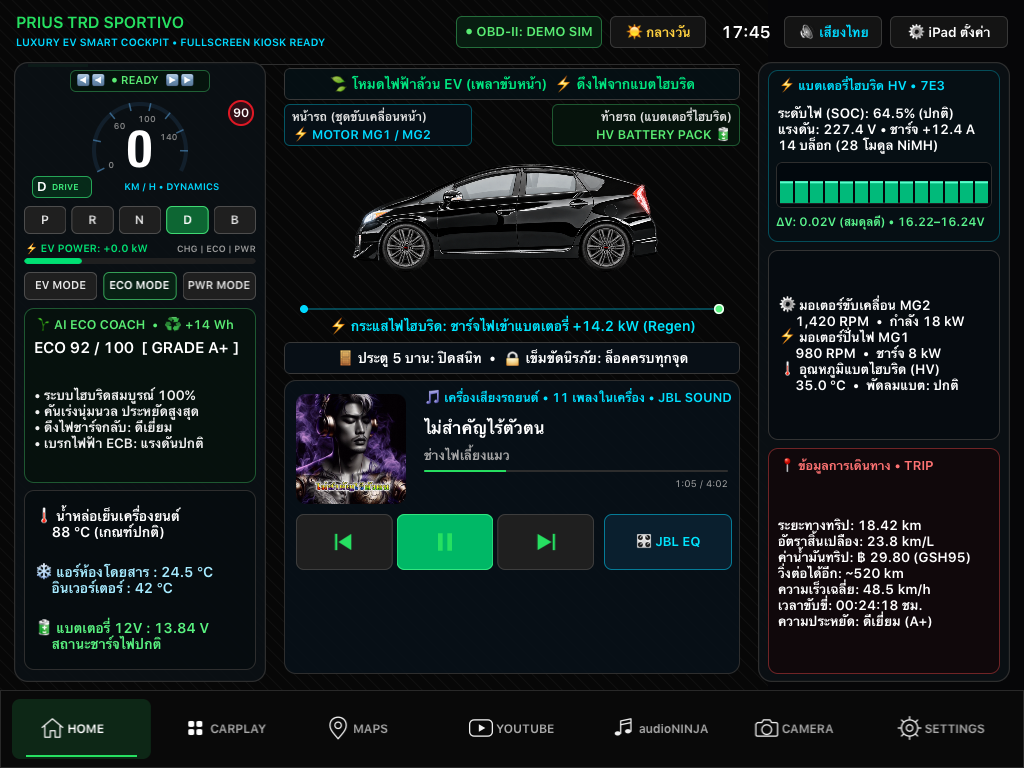
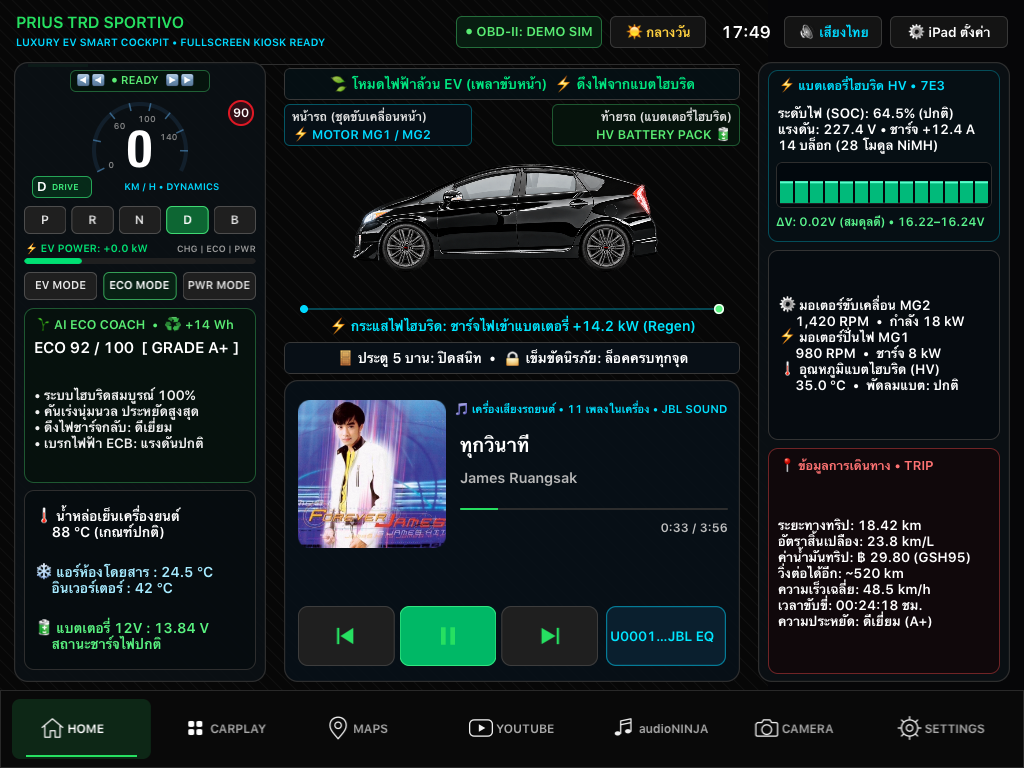
style(dashboard): lower multimedia transport buttons to align flush with bottom of side cards

diff --git a/align_media_buttons.js b/align_media_buttons.js
@@ -1,0 +1,92 @@
+const fs = require('fs');
+
+function alignMediaButtons(filePath) {
+  let code = fs.readFileSync(filePath, 'utf8');
+
+  code = code.replace(
+    /\/\/ Multimedia Console[\s\S]*?if\(mHead\) mHead\.hidden = NO;/,
+    `// Multimedia Console
+    CGFloat mTop = topY + 318;
+    CGFloat mH = colH - 318; // 302px -> bottom is topY + 620, 100% aligned with left & right columns
+    self.nowPanel.hidden = NO;
+    self.nowPanel.frame = CGRectMake(centerX + 8, mTop, centerW - 16, mH);
+    self.nowPanel.layer.cornerRadius = 14;
+    self.nowPanel.layer.borderWidth = 1.2;
+    self.nowPanel.layer.borderColor = [UIColor colorWithWhite:.18 alpha:1].CGColor;
+    self.nowPanel.backgroundColor = [UIColor colorWithRed:.03 green:.06 blue:.09 alpha:.95];
+
+    self.artwork.hidden = NO;
+    self.artwork.frame = CGRectMake(centerX + 22, mTop + 20, 148, 148);
+    self.artwork.layer.cornerRadius = 12;
+    self.artPlaceholder.frame = self.artwork.frame;
+    self.artPlaceholder.hidden = (self.artwork.image != nil);
+
+    UILabel *mHead = (UILabel *)[self.nowPanel viewWithTag:750];
+    if (!mHead) {
+      mHead = [[UILabel alloc] initWithFrame:CGRectMake(170, 18, centerW - 196, 22)];
+      mHead.tag = 750;
+      mHead.font = [UIFont boldSystemFontOfSize:13.0];
+      mHead.adjustsFontSizeToFitWidth = YES;
+      mHead.minimumScaleFactor = 0.85;
+      mHead.textColor = [UIColor colorWithRed:0 green:.88 blue:1 alpha:1];
+      mHead.text = @"🎵 เครื่องเสียงรถยนต์ • 11 เพลงในเครื่อง • JBL SOUND";
+      [self.nowPanel addSubview:mHead];
+    }
+    mHead.frame = CGRectMake(170, 18, centerW - 196, 22);
+
+    self.song.hidden = NO;
+    self.song.frame = CGRectMake(centerX + 184, mTop + 48, centerW - 204, 34);
+    self.song.font = [UIFont boldSystemFontOfSize:20.0];
+    self.song.textColor = [UIColor whiteColor];
+
+    self.artist.hidden = NO;
+    self.artist.frame = CGRectMake(centerX + 184, mTop + 86, centerW - 204, 24);
+    self.artist.font = [UIFont boldSystemFontOfSize:14.5];
+    self.artist.textColor = [UIColor colorWithWhite:0.72 alpha:1];
+
+    self.trackProgress.hidden = NO;
+    self.trackProgress.frame = CGRectMake(centerX + 184, mTop + 128, centerW - 204, 4);
+
+    self.trackTime.hidden = NO;
+    self.trackTime.frame = CGRectMake(centerX + 184, mTop + 138, centerW - 204, 20);
+    self.trackTime.font = [UIFont boldSystemFontOfSize:12.0];
+    self.trackTime.textColor = [UIColor colorWithWhite:0.75 alpha:1];
+    self.trackTime.textAlignment = NSTextAlignmentRight;
+
+    CGFloat btnY = mTop + mH - 76; // 60px high buttons, 16px from card bottom -> bottoms align with side cards!
+    CGFloat btnH = 60;
+    self.controls.hidden = NO;
+    self.controls.frame = CGRectMake(centerX + 22, btnY, 300, btnH);
+    CGFloat cw = 290 / 3.0;
+    for (int i = 0; i < 3; i++) {
+      UIView *b = [self.controls viewWithTag:20 + i];
+      b.frame = CGRectMake(i * (cw + 5), 0, cw, btnH);
+      b.layer.cornerRadius = 10;
+      if (i == 1) {
+        b.backgroundColor = [UIColor colorWithRed:.0 green:.72 blue:.40 alpha:1];
+        b.layer.borderColor = [UIColor colorWithRed:.2 green:.9 blue:.5 alpha:1].CGColor;
+      } else {
+        b.backgroundColor = [UIColor colorWithWhite:.12 alpha:1];
+        b.layer.borderColor = [UIColor colorWithWhite:.24 alpha:1].CGColor;
+      }
+      [b viewWithTag:105].frame = CGRectMake((cw - 28)/2, (btnH - 28)/2, 28, 28);
+    }
+
+    self.driveEQ.hidden = NO;
+    self.driveEQ.frame = CGRectMake(centerX + 330, btnY, centerW - 352, btnH);
+    self.driveEQ.layer.cornerRadius = 10;
+    self.driveEQ.layer.borderWidth = 1.2;
+    self.driveEQ.layer.borderColor = [UIColor colorWithRed:0 green:.85 blue:1 alpha:.5].CGColor;
+    self.driveEQ.backgroundColor = [UIColor colorWithRed:.04 green:.12 blue:.18 alpha:1];
+    [self.driveEQ setTitle:@"\U0001F39B\U0000FE0F JBL EQ" forState:UIControlStateNormal];
+    [self.driveEQ setTitleColor:[UIColor colorWithRed:0 green:.9 blue:1 alpha:1] forState:UIControlStateNormal];
+    self.driveEQ.titleLabel.font = [UIFont boldSystemFontOfSize:13.5];
+    if(mHead) mHead.hidden = NO;`
+  );
+
+  fs.writeFileSync(filePath, code, 'utf8');
+  console.log('Aligned media buttons to bottom in', filePath);
+}
+
+alignMediaButtons('cardash_main.m');
+alignMediaButtons('car_dash_live_main.m');

diff --git a/car_dash_live_main.m b/car_dash_live_main.m
@@ -2366,22 +2366,23 @@ typedef void (*NowPlayingReader)(dispatch_queue_t,void (^)(CFDictionaryRef));
 
     // Multimedia Console
     CGFloat mTop = topY + 318;
+    CGFloat mH = colH - 318; // 302px -> bottom is topY + 620, 100% aligned with left & right columns
     self.nowPanel.hidden = NO;
-    self.nowPanel.frame = CGRectMake(centerX + 8, mTop, centerW - 16, colH - 326);
-    self.nowPanel.layer.cornerRadius = 12;
-    self.nowPanel.layer.borderWidth = 1;
+    self.nowPanel.frame = CGRectMake(centerX + 8, mTop, centerW - 16, mH);
+    self.nowPanel.layer.cornerRadius = 14;
+    self.nowPanel.layer.borderWidth = 1.2;
     self.nowPanel.layer.borderColor = [UIColor colorWithWhite:.18 alpha:1].CGColor;
     self.nowPanel.backgroundColor = [UIColor colorWithRed:.03 green:.06 blue:.09 alpha:.95];
 
     self.artwork.hidden = NO;
-    self.artwork.frame = CGRectMake(centerX + 20, mTop + 14, 110, 110);
-    self.artwork.layer.cornerRadius = 10;
+    self.artwork.frame = CGRectMake(centerX + 22, mTop + 20, 148, 148);
+    self.artwork.layer.cornerRadius = 12;
     self.artPlaceholder.frame = self.artwork.frame;
     self.artPlaceholder.hidden = (self.artwork.image != nil);
 
     UILabel *mHead = (UILabel *)[self.nowPanel viewWithTag:750];
     if (!mHead) {
-      mHead = [[UILabel alloc] initWithFrame:CGRectMake(140, 8, centerW - 164, 20)];
+      mHead = [[UILabel alloc] initWithFrame:CGRectMake(170, 18, centerW - 196, 22)];
       mHead.tag = 750;
       mHead.font = [UIFont boldSystemFontOfSize:13.0];
       mHead.adjustsFontSizeToFitWidth = YES;
@@ -2390,33 +2391,36 @@ typedef void (*NowPlayingReader)(dispatch_queue_t,void (^)(CFDictionaryRef));
       mHead.text = @"🎵 เครื่องเสียงรถยนต์ • 11 เพลงในเครื่อง • JBL SOUND";
       [self.nowPanel addSubview:mHead];
     }
+    mHead.frame = CGRectMake(170, 18, centerW - 196, 22);
 
     self.song.hidden = NO;
-    self.song.frame = CGRectMake(centerX + 148, mTop + 32, centerW - 168, 30);
-    self.song.font = [UIFont boldSystemFontOfSize:17.5];
+    self.song.frame = CGRectMake(centerX + 184, mTop + 48, centerW - 204, 34);
+    self.song.font = [UIFont boldSystemFontOfSize:20.0];
     self.song.textColor = [UIColor whiteColor];
 
     self.artist.hidden = NO;
-    self.artist.frame = CGRectMake(centerX + 148, mTop + 64, centerW - 168, 22);
-    self.artist.font = [UIFont boldSystemFontOfSize:13.5];
-    self.artist.textColor = [UIColor colorWithWhite:0.65 alpha:1];
+    self.artist.frame = CGRectMake(centerX + 184, mTop + 86, centerW - 204, 24);
+    self.artist.font = [UIFont boldSystemFontOfSize:14.5];
+    self.artist.textColor = [UIColor colorWithWhite:0.72 alpha:1];
 
     self.trackProgress.hidden = NO;
-    self.trackProgress.frame = CGRectMake(centerX + 148, mTop + 90, centerW - 168, 3);
+    self.trackProgress.frame = CGRectMake(centerX + 184, mTop + 128, centerW - 204, 4);
 
     self.trackTime.hidden = NO;
-    self.trackTime.frame = CGRectMake(centerX + 148, mTop + 96, centerW - 168, 16);
-    self.trackTime.font = [UIFont systemFontOfSize:9.5];
-    self.trackTime.textColor = [UIColor colorWithWhite:0.65 alpha:1];
+    self.trackTime.frame = CGRectMake(centerX + 184, mTop + 138, centerW - 204, 20);
+    self.trackTime.font = [UIFont boldSystemFontOfSize:12.0];
+    self.trackTime.textColor = [UIColor colorWithWhite:0.75 alpha:1];
     self.trackTime.textAlignment = NSTextAlignmentRight;
 
+    CGFloat btnY = mTop + mH - 76; // 60px high buttons, 16px from card bottom -> bottoms align with side cards!
+    CGFloat btnH = 60;
     self.controls.hidden = NO;
-    self.controls.frame = CGRectMake(centerX + 20, mTop + 134, 300, 56);
+    self.controls.frame = CGRectMake(centerX + 22, btnY, 300, btnH);
     CGFloat cw = 290 / 3.0;
     for (int i = 0; i < 3; i++) {
       UIView *b = [self.controls viewWithTag:20 + i];
-      b.frame = CGRectMake(i * (cw + 4), 0, cw, 56);
-      b.layer.cornerRadius = 8;
+      b.frame = CGRectMake(i * (cw + 5), 0, cw, btnH);
+      b.layer.cornerRadius = 10;
       if (i == 1) {
         b.backgroundColor = [UIColor colorWithRed:.0 green:.72 blue:.40 alpha:1];
         b.layer.borderColor = [UIColor colorWithRed:.2 green:.9 blue:.5 alpha:1].CGColor;
@@ -2424,20 +2428,18 @@ typedef void (*NowPlayingReader)(dispatch_queue_t,void (^)(CFDictionaryRef));
         b.backgroundColor = [UIColor colorWithWhite:.12 alpha:1];
         b.layer.borderColor = [UIColor colorWithWhite:.24 alpha:1].CGColor;
       }
-      [b viewWithTag:105].frame = CGRectMake((cw - 28)/2, (56 - 28)/2, 28, 28);
+      [b viewWithTag:105].frame = CGRectMake((cw - 28)/2, (btnH - 28)/2, 28, 28);
     }
 
     self.driveEQ.hidden = NO;
-    self.driveEQ.frame = CGRectMake(centerX + 328, mTop + 134, centerW - 344, 56);
-    self.driveEQ.layer.cornerRadius = 8;
-    self.driveEQ.layer.borderWidth = 1;
-    self.driveEQ.layer.borderColor = [UIColor colorWithRed:0 green:.85 blue:1 alpha:.4].CGColor;
-    self.driveEQ.backgroundColor = [UIColor colorWithRed:.02 green:.08 blue:.12 alpha:.9];
-    [self.driveEQ setTitle:@"\U0001F39B\U0000FE0F JBL EQ" forState:UIControlStateNormal];
-    [self.driveEQ setTitleColor:[UIColor colorWithRed:0 green:.9 blue:1 alpha:1] forState:UIControlStateNormal];
-    self.driveEQ.titleLabel.font = [UIFont boldSystemFontOfSize:13];
-    self.driveEQ.backgroundColor = [UIColor colorWithRed:.04 green:.12 blue:.18 alpha:1];
+    self.driveEQ.frame = CGRectMake(centerX + 330, btnY, centerW - 352, btnH);
+    self.driveEQ.layer.cornerRadius = 10;
+    self.driveEQ.layer.borderWidth = 1.2;
     self.driveEQ.layer.borderColor = [UIColor colorWithRed:0 green:.85 blue:1 alpha:.5].CGColor;
+    self.driveEQ.backgroundColor = [UIColor colorWithRed:.04 green:.12 blue:.18 alpha:1];
+    [self.driveEQ setTitle:@"U0001F39BU0000FE0F JBL EQ" forState:UIControlStateNormal];
+    [self.driveEQ setTitleColor:[UIColor colorWithRed:0 green:.9 blue:1 alpha:1] forState:UIControlStateNormal];
+    self.driveEQ.titleLabel.font = [UIFont boldSystemFontOfSize:13.5];
     if(mHead) mHead.hidden = NO;
 
     // 3. RIGHT ZONE

diff --git a/cardash_main.m b/cardash_main.m
@@ -2366,22 +2366,23 @@ typedef void (*NowPlayingReader)(dispatch_queue_t,void (^)(CFDictionaryRef));
 
     // Multimedia Console
     CGFloat mTop = topY + 318;
+    CGFloat mH = colH - 318; // 302px -> bottom is topY + 620, 100% aligned with left & right columns
     self.nowPanel.hidden = NO;
-    self.nowPanel.frame = CGRectMake(centerX + 8, mTop, centerW - 16, colH - 326);
-    self.nowPanel.layer.cornerRadius = 12;
-    self.nowPanel.layer.borderWidth = 1;
+    self.nowPanel.frame = CGRectMake(centerX + 8, mTop, centerW - 16, mH);
+    self.nowPanel.layer.cornerRadius = 14;
+    self.nowPanel.layer.borderWidth = 1.2;
     self.nowPanel.layer.borderColor = [UIColor colorWithWhite:.18 alpha:1].CGColor;
     self.nowPanel.backgroundColor = [UIColor colorWithRed:.03 green:.06 blue:.09 alpha:.95];
 
     self.artwork.hidden = NO;
-    self.artwork.frame = CGRectMake(centerX + 20, mTop + 14, 110, 110);
-    self.artwork.layer.cornerRadius = 10;
+    self.artwork.frame = CGRectMake(centerX + 22, mTop + 20, 148, 148);
+    self.artwork.layer.cornerRadius = 12;
     self.artPlaceholder.frame = self.artwork.frame;
     self.artPlaceholder.hidden = (self.artwork.image != nil);
 
     UILabel *mHead = (UILabel *)[self.nowPanel viewWithTag:750];
     if (!mHead) {
-      mHead = [[UILabel alloc] initWithFrame:CGRectMake(140, 8, centerW - 164, 20)];
+      mHead = [[UILabel alloc] initWithFrame:CGRectMake(170, 18, centerW - 196, 22)];
       mHead.tag = 750;
       mHead.font = [UIFont boldSystemFontOfSize:13.0];
       mHead.adjustsFontSizeToFitWidth = YES;
@@ -2390,33 +2391,36 @@ typedef void (*NowPlayingReader)(dispatch_queue_t,void (^)(CFDictionaryRef));
       mHead.text = @"🎵 เครื่องเสียงรถยนต์ • 11 เพลงในเครื่อง • JBL SOUND";
       [self.nowPanel addSubview:mHead];
     }
+    mHead.frame = CGRectMake(170, 18, centerW - 196, 22);
 
     self.song.hidden = NO;
-    self.song.frame = CGRectMake(centerX + 148, mTop + 32, centerW - 168, 30);
-    self.song.font = [UIFont boldSystemFontOfSize:17.5];
+    self.song.frame = CGRectMake(centerX + 184, mTop + 48, centerW - 204, 34);
+    self.song.font = [UIFont boldSystemFontOfSize:20.0];
     self.song.textColor = [UIColor whiteColor];
 
     self.artist.hidden = NO;
-    self.artist.frame = CGRectMake(centerX + 148, mTop + 64, centerW - 168, 22);
-    self.artist.font = [UIFont boldSystemFontOfSize:13.5];
-    self.artist.textColor = [UIColor colorWithWhite:0.65 alpha:1];
+    self.artist.frame = CGRectMake(centerX + 184, mTop + 86, centerW - 204, 24);
+    self.artist.font = [UIFont boldSystemFontOfSize:14.5];
+    self.artist.textColor = [UIColor colorWithWhite:0.72 alpha:1];
 
     self.trackProgress.hidden = NO;
-    self.trackProgress.frame = CGRectMake(centerX + 148, mTop + 90, centerW - 168, 3);
+    self.trackProgress.frame = CGRectMake(centerX + 184, mTop + 128, centerW - 204, 4);
 
     self.trackTime.hidden = NO;
-    self.trackTime.frame = CGRectMake(centerX + 148, mTop + 96, centerW - 168, 16);
-    self.trackTime.font = [UIFont systemFontOfSize:9.5];
-    self.trackTime.textColor = [UIColor colorWithWhite:0.65 alpha:1];
+    self.trackTime.frame = CGRectMake(centerX + 184, mTop + 138, centerW - 204, 20);
+    self.trackTime.font = [UIFont boldSystemFontOfSize:12.0];
+    self.trackTime.textColor = [UIColor colorWithWhite:0.75 alpha:1];
     self.trackTime.textAlignment = NSTextAlignmentRight;
 
+    CGFloat btnY = mTop + mH - 76; // 60px high buttons, 16px from card bottom -> bottoms align with side cards!
+    CGFloat btnH = 60;
     self.controls.hidden = NO;
-    self.controls.frame = CGRectMake(centerX + 20, mTop + 134, 300, 56);
+    self.controls.frame = CGRectMake(centerX + 22, btnY, 300, btnH);
     CGFloat cw = 290 / 3.0;
     for (int i = 0; i < 3; i++) {
       UIView *b = [self.controls viewWithTag:20 + i];
-      b.frame = CGRectMake(i * (cw + 4), 0, cw, 56);
-      b.layer.cornerRadius = 8;
+      b.frame = CGRectMake(i * (cw + 5), 0, cw, btnH);
+      b.layer.cornerRadius = 10;
       if (i == 1) {
         b.backgroundColor = [UIColor colorWithRed:.0 green:.72 blue:.40 alpha:1];
         b.layer.borderColor = [UIColor colorWithRed:.2 green:.9 blue:.5 alpha:1].CGColor;
@@ -2424,20 +2428,18 @@ typedef void (*NowPlayingReader)(dispatch_queue_t,void (^)(CFDictionaryRef));
         b.backgroundColor = [UIColor colorWithWhite:.12 alpha:1];
         b.layer.borderColor = [UIColor colorWithWhite:.24 alpha:1].CGColor;
       }
-      [b viewWithTag:105].frame = CGRectMake((cw - 28)/2, (56 - 28)/2, 28, 28);
+      [b viewWithTag:105].frame = CGRectMake((cw - 28)/2, (btnH - 28)/2, 28, 28);
     }
 
     self.driveEQ.hidden = NO;
-    self.driveEQ.frame = CGRectMake(centerX + 328, mTop + 134, centerW - 344, 56);
-    self.driveEQ.layer.cornerRadius = 8;
-    self.driveEQ.layer.borderWidth = 1;
-    self.driveEQ.layer.borderColor = [UIColor colorWithRed:0 green:.85 blue:1 alpha:.4].CGColor;
-    self.driveEQ.backgroundColor = [UIColor colorWithRed:.02 green:.08 blue:.12 alpha:.9];
-    [self.driveEQ setTitle:@"\U0001F39B\U0000FE0F JBL EQ" forState:UIControlStateNormal];
-    [self.driveEQ setTitleColor:[UIColor colorWithRed:0 green:.9 blue:1 alpha:1] forState:UIControlStateNormal];
-    self.driveEQ.titleLabel.font = [UIFont boldSystemFontOfSize:13];
-    self.driveEQ.backgroundColor = [UIColor colorWithRed:.04 green:.12 blue:.18 alpha:1];
+    self.driveEQ.frame = CGRectMake(centerX + 330, btnY, centerW - 352, btnH);
+    self.driveEQ.layer.cornerRadius = 10;
+    self.driveEQ.layer.borderWidth = 1.2;
     self.driveEQ.layer.borderColor = [UIColor colorWithRed:0 green:.85 blue:1 alpha:.5].CGColor;
+    self.driveEQ.backgroundColor = [UIColor colorWithRed:.04 green:.12 blue:.18 alpha:1];
+    [self.driveEQ setTitle:@"U0001F39BU0000FE0F JBL EQ" forState:UIControlStateNormal];
+    [self.driveEQ setTitleColor:[UIColor colorWithRed:0 green:.9 blue:1 alpha:1] forState:UIControlStateNormal];
+    self.driveEQ.titleLabel.font = [UIFont boldSystemFontOfSize:13.5];
     if(mHead) mHead.hidden = NO;
 
     // 3. RIGHT ZONE
